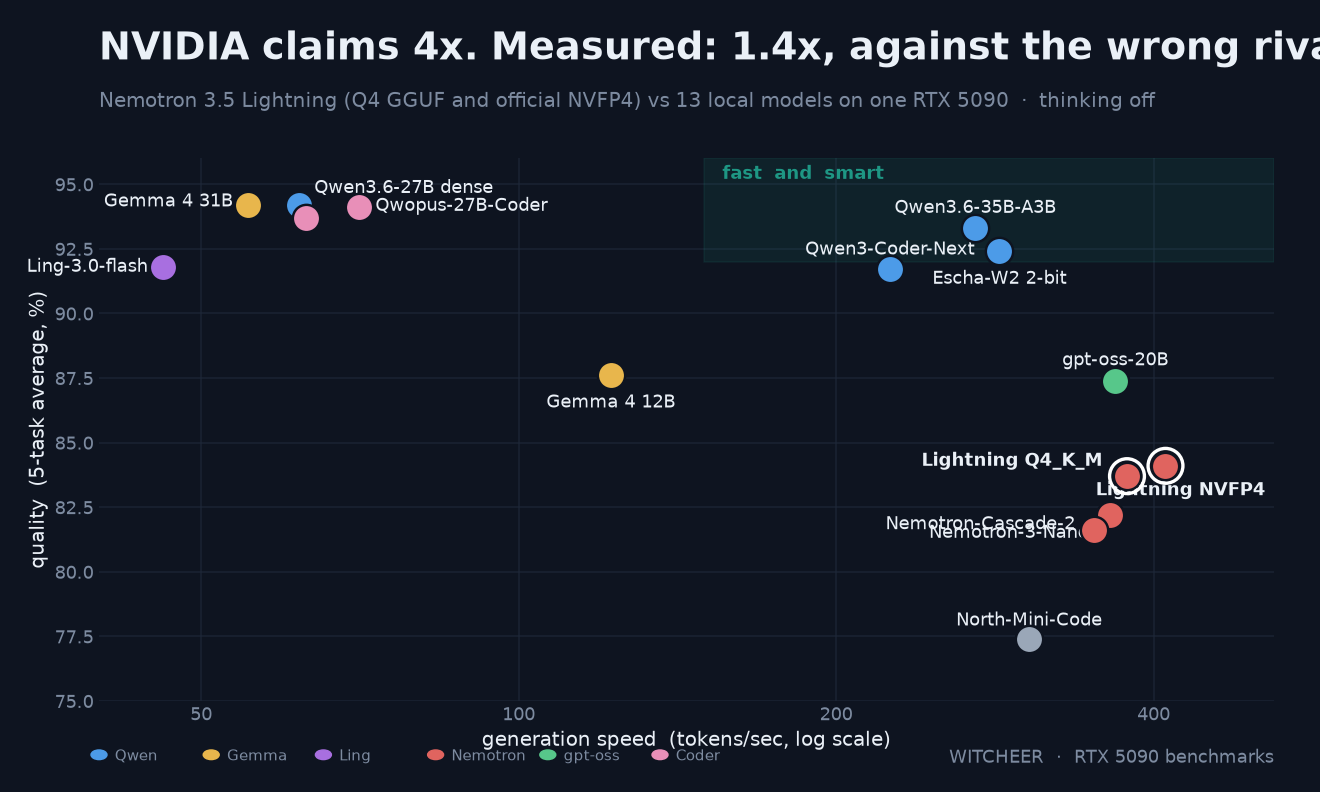
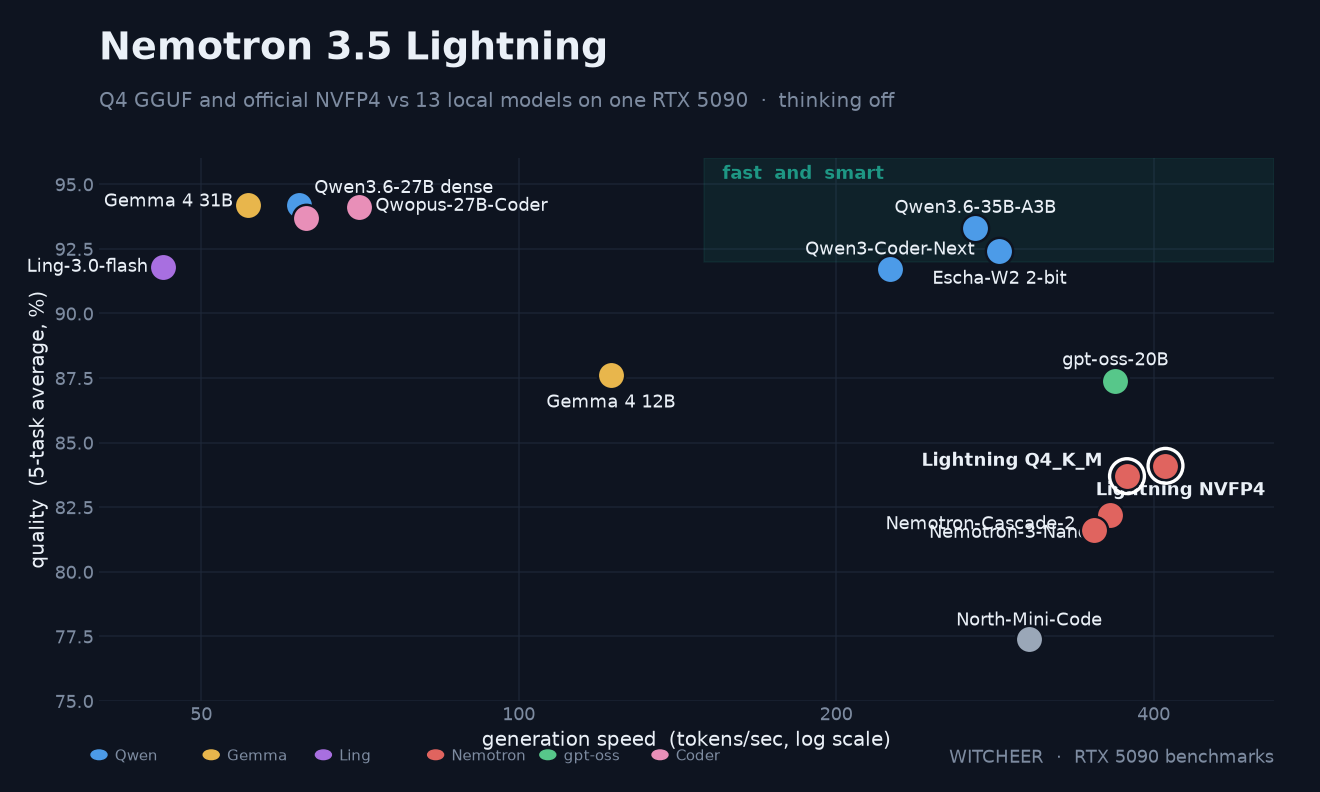
chart: lightning quadrant final title (model name only, as posted)

Changed region(s): [[0.0621, 0.0303, 1.0, 0.1515]]

diff --git a/scripts/chart_lightning_quadrant.py b/scripts/chart_lightning_quadrant.py
@@ -35,8 +35,8 @@ C = {  # per-family colours
 }
 
 # ================= EDIT PER CHART =================
-TITLE    = "NVIDIA claims 4x. Measured: 1.4x, against the wrong rival."
-SUBTITLE = "Nemotron 3.5 Lightning (Q4 GGUF and official NVFP4) vs 13 local models on one RTX 5090  \u00b7  thinking off"
+TITLE    = "Nemotron 3.5 Lightning"
+SUBTITLE = "Q4 GGUF and official NVFP4 vs 13 local models on one RTX 5090  \u00b7  thinking off"
 OUT      = "/opt/data/mercury-cards/nemotron-lightning/quadrant-lightning-4x.png"
 # ideal-quadrant box: (x_left, y_bottom, x_right, y_top) in data coords, or None to omit
 IDEAL_BOX = (150, 92, 520, 96)
